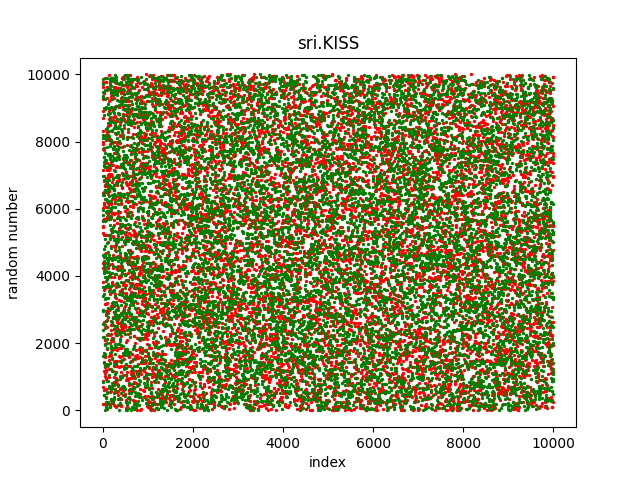
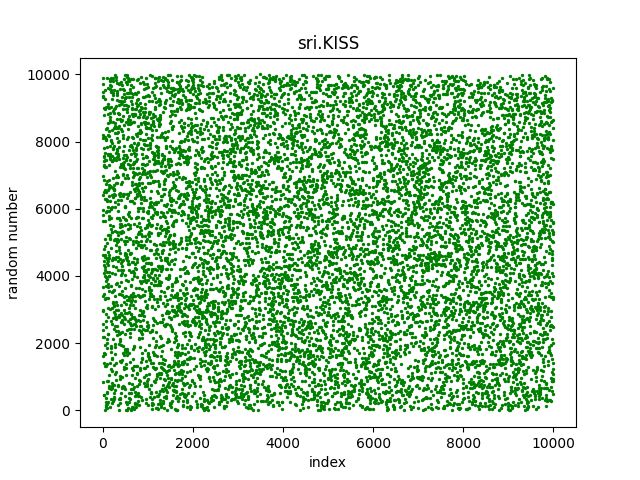
I fixed plotting error.

Changed region(s): [[0.1562, 0.1562, 0.875, 0.875]]

diff --git a/asgn1/prog1.py b/asgn1/prog1.py
@@ -38,6 +38,7 @@ def distribution_random():
     plt.ylabel("random number")
     # plt.show()
     plt.savefig("random.png")
+    plt.clf()
 
 
 def distribution_KISS():
@@ -51,7 +52,7 @@ def distribution_KISS():
     plt.xlabel("index")
     plt.ylabel("random number")
     plt.savefig("kiss.png")
-
+    plt.clf()
 
 def distribution_SHR3():
     rng_shr3 = sri.SHR3(3360276411)
@@ -64,7 +65,7 @@ def distribution_SHR3():
     plt.xlabel("index")
     plt.ylabel("random number")
     plt.savefig("shr3.png")
-
+    plt.clf()
 
 def pingpong(n:int=21, p:float=0.3, ntrials:int=5000, seed:int=0):
     """
@@ -152,12 +153,12 @@ def plot_output():
     plt.xlabel("P(win point)")
     plt.ylabel("P(win game)")
     plt.savefig("pingpong.png")
-
+    plt.clf()
 
 if __name__ == '__main__':
-    #distribution_random()
-    #distribution_KISS()
-    #distribution_SHR3()
+    distribution_random()
+    distribution_KISS()
+    distribution_SHR3()
     #print(dir(np.random))
     #x2 = np.linspace(0.0, 1.0, 10)
     #print(x2)
@@ -171,3 +172,4 @@ if __name__ == '__main__':
     plot_output()
     # You can test out things here. Feel free to write anything below.
 
+    # print(pingpong())
